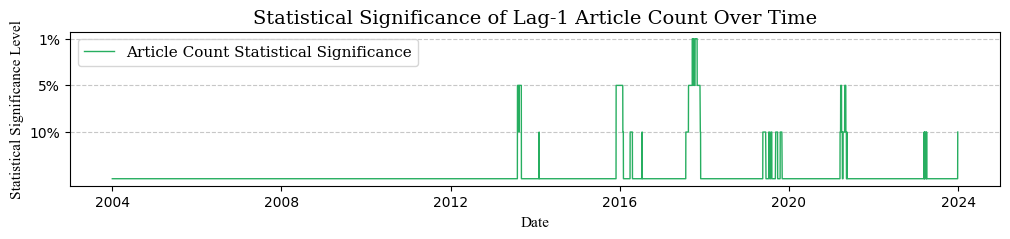
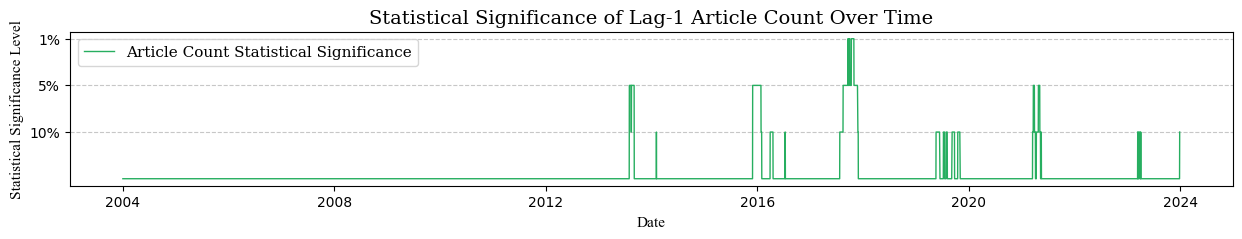
fixed plot size

diff --git a/Show_significance_time_series.py b/Show_significance_time_series.py
@@ -5,7 +5,7 @@ import matplotlib.dates as mdates
 import matplotlib.pyplot as plt
 
 # Load data
-df = pd.read_csv('Rolling_VAR_Results/Returns_Rolling_VAR_T_Ratios.csv')
+df = pd.read_csv('Rolling_VAR_Results/Absolute_Returns_Rolling_VAR_T_Ratios.csv')
 df = df[252:]
 df.set_index('obs', inplace=True)
 
@@ -66,7 +66,7 @@ plt.ylabel('Statistical Significance Level', fontsize=11, fontname='Times New Ro
 plt.yticks([1, 2, 3], ['10%', '5%', '1%'])
 plt.grid(axis='y', linestyle='--', alpha=0.7)
 plt.tick_params(axis='both', which='major', labelsize=10)
-plt.savefig('Plots/Returns_Positive_Sentiment_Significance.png', bbox_inches='tight')
+plt.savefig('Plots/Abs_Returns_Positive_Sentiment_Significance.png', bbox_inches='tight')
 #plt.show()
 
 # Plot data
@@ -80,11 +80,11 @@ plt.ylabel('Statistical Significance Level', fontsize=11, fontname='Times New Ro
 plt.yticks([1, 2, 3], ['10%', '5%', '1%'])
 plt.grid(axis='y', linestyle='--', alpha=0.7)
 plt.tick_params(axis='both', which='major', labelsize=10)
-plt.savefig('Plots/Returns_Negative_Sentiment_Significance.png', bbox_inches='tight')
+plt.savefig('Plots/Abs_Returns_Negative_Sentiment_Significance.png', bbox_inches='tight')
 #plt.show()
 
 # Plot data
-plt.figure(figsize=(12, 2))
+plt.figure(figsize=(15, 2))
 plt.plot(datetime_objs, media_vol_significance, label='Article Count Statistical Significance', color='#27ae60', linewidth=1)
 plt.title('Statistical Significance of Lag-1 Article Count Over Time', fontsize=14, fontfamily='serif')
 plt.gca().xaxis.set_major_formatter(mdates.DateFormatter('%Y'))
@@ -94,5 +94,5 @@ plt.ylabel('Statistical Significance Level', fontsize=11, fontname='Times New Ro
 plt.yticks([1, 2, 3], ['10%', '5%', '1%'])
 plt.grid(axis='y', linestyle='--', alpha=0.7)
 plt.tick_params(axis='both', which='major', labelsize=10)
-plt.savefig('Plots/Returns_Article_Count_Significance.png', bbox_inches='tight')
+plt.savefig('Plots/Abs_Returns_Article_Count_Significance.png', bbox_inches='tight')
 #plt.show()
